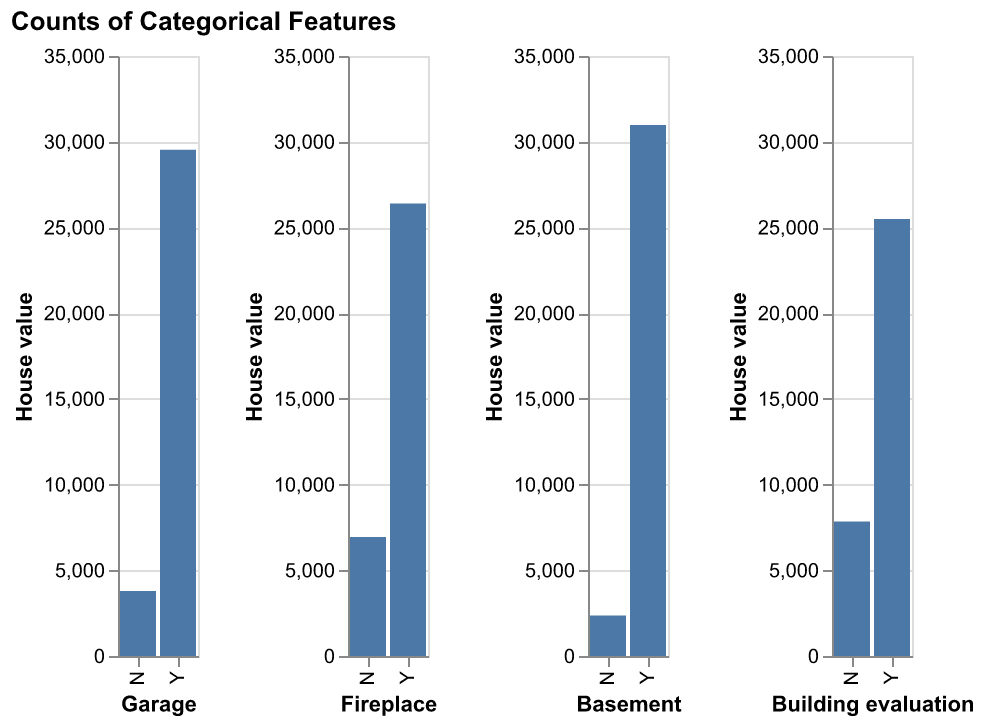
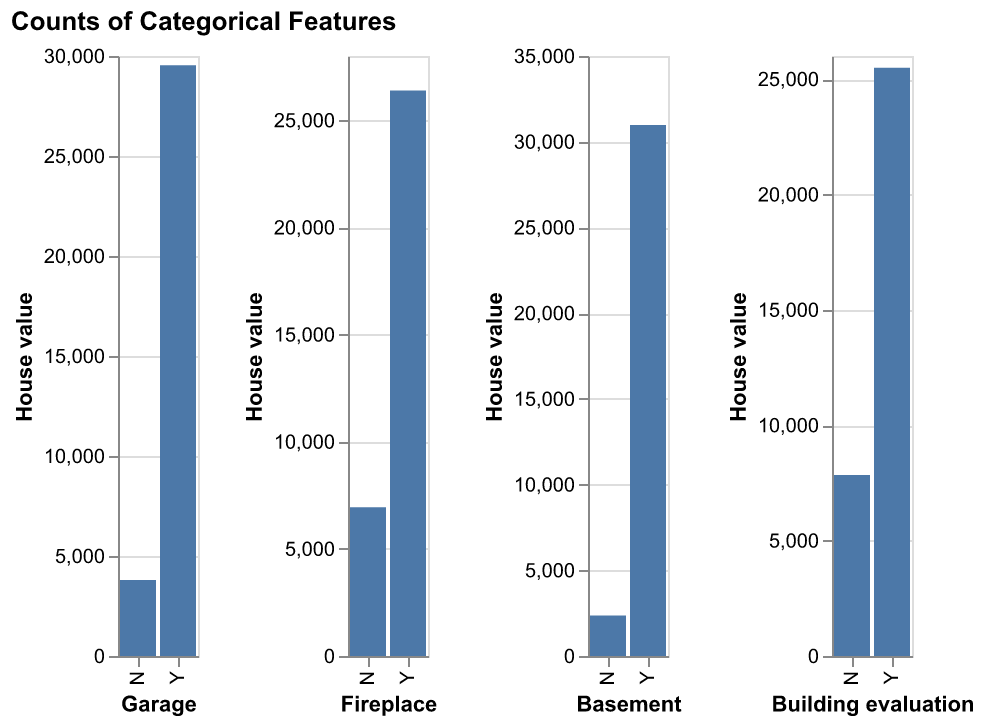
modified scripts and tests

diff --git a/scripts/eda.py b/scripts/eda.py
@@ -2,6 +2,7 @@
 import click
 import os
 import pandas as pd
+import altair as alt
 from src.eda_utils import create_combined_bar_chart
 
 @click.command()
@@ -9,22 +10,79 @@ from src.eda_utils import create_combined_bar_chart
 @click.option('--plot-to', type=str, help="Path to directory where the plots will be saved")
 def main(processed_data, plot_to):
     """
-    Creates combined bar charts for categorical features
-    and saves the plot as a file.
+    Creates bar charts, scatter plots, and distribution plots for categorical features 
+    and saves the combined plots as separate files.
     """
     # Load the processed data
     housing_df = pd.read_csv(processed_data)
-
-    # Generate the combined bar chart
-    combined_chart = create_combined_bar_chart(
+    
+    # Create and save the combined bar chart for categorical features
+    bar_chart_combined = create_combined_bar_chart(
         df=housing_df,
-        chart_title="Counts of categorical features"
+        chart_title="Counts of Categorical Features"
+    )
+    bar_chart_file = os.path.join(plot_to, "categorical_features_counts.png")
+    bar_chart_combined.save(bar_chart_file, scale_factor=2.0)
+
+    # Create scatter plots for house value assessment per categorical feature
+    grg = alt.Chart(housing_df).mark_point().encode(
+        x=alt.X('garage', title='Garage'),
+        y=alt.Y('assess_2022', title='House value'),
     )
 
-    # Save the combined plot
-    output_file = os.path.join(plot_to, "categorical_features_combined_chart.png")
-    combined_chart.save(output_file, scale_factor=2.0)
-    print(f"Combined bar chart saved to {output_file}")
+    frp = alt.Chart(housing_df).mark_point().encode(
+        x=alt.X('firepl', title='Fireplace'),
+        y=alt.Y('assess_2022', title='House value'),
+    )
+
+    bst = alt.Chart(housing_df).mark_point().encode(
+        x=alt.X('bsmt', title='Basement'),
+        y=alt.Y('assess_2022', title='House value'),
+    )
+
+    bdl = alt.Chart(housing_df).mark_point().encode(
+        x=alt.X('bdevl', title='Building evaluation'),
+        y=alt.Y('assess_2022', title='House value'),
+    )
+
+    scatter_chart_combined = (grg | frp | bst | bdl).properties(
+        title="House Value Assessment per Categorical Feature"
+    )
+    scatter_chart_file = os.path.join(plot_to, "categorical_features_scatter.png")
+    scatter_chart_combined.save(scatter_chart_file, scale_factor=2.0)
+
+    # Create a scatter plot for property size vs. assessment values
+    scatter = alt.Chart(housing_df).mark_point().encode(
+        y=alt.Y('meters', title="Property size (meters)"),
+        x=alt.X('assess_2022', title="Assessment Value"),
+        color=alt.Color('meters', title="Property size (meters)", scale=alt.Scale(scheme='viridis'))
+    ).properties(
+        title="Scatter Plot of Property Size and Assessment Values (2022)"
+    )
+
+    # Create a histogram and KDE plot for the 'assess_2022' column
+    histogram = alt.Chart(housing_df).mark_bar().encode(
+        alt.X("assess_2022:Q", bin=alt.Bin(maxbins=2000), title="Assessment Value").scale(domain=(0, 2000000), clamp=True),
+        alt.Y("count():Q", title="Frequency"),
+    ).properties(
+        title="Distribution of House Assessment Values (2022)"
+    )
+
+    kde = alt.Chart(housing_df).transform_density(
+        "assess_2022",
+        as_=["assess_2022", "density"], 
+        counts=True
+    ).mark_line(color="red").encode(
+        alt.X("assess_2022:Q", title="Assessment Value").scale(domain=(0, 2000000), clamp=True),
+        alt.Y("density:Q", title="Density")
+    ).properties(
+        title="Line Plot of KDE House Assessment Values (2022)"
+    )
+
+    # Combine the histogram, KDE plot, and scatter plot
+    combined_chart = histogram | kde | scatter
+    distribution_chart_file = os.path.join(plot_to, "distribution_charts.png")
+    combined_chart.save(distribution_chart_file, scale_factor=2.0)
 
 if __name__ == '__main__':
     main()

diff --git a/scripts/preprocess_data.py b/scripts/preprocess_data.py
@@ -4,9 +4,10 @@
 # author: Thamer Aldawood
 # date: 2024-12-05
 
-import pandas as pd
 import click
+import os
 import pickle
+import pandas as pd
 from src.preprocess_utils import create_preprocessor, validate_categorical_levels
 
 @click.command()
@@ -14,21 +15,32 @@ from src.preprocess_utils import create_preprocessor, validate_categorical_level
 @click.option('--write-to', type=str, help="Path to directory where preprocessed data will be written to")
 def main(train_data, write_to):
     """
-    Preprocesses the data, performs validation, and saves the preprocessor to disk.
+    Preprocesses and validates data, then writes preprocessor to disk using Pickle.
     """
     # Load the training data
     train_df = pd.read_csv(train_data)
-    
-    # Validate categorical levels
-    invalid_values = validate_categorical_levels(train_df, ['garage', 'firepl', 'bsmt', 'bdevl'], {'Y', 'N'})
-    if invalid_values:
-        raise ValueError(f"Invalid values found in categorical columns: {invalid_values}")
-    
+
+    # Define feature categories
+    categorical_features = ['garage', 'firepl', 'bsmt', 'bdevl']
+    numeric_features = ['meters']
+
+    # Validate categorical feature levels
+    validate_categorical_levels(train_df, categorical_features, expected_values={'Y', 'N'})
+
     # Create the preprocessor
-    preprocessor = create_preprocessor(['garage', 'firepl', 'bsmt', 'bdevl'], ['meters'])
-    
-    # Save the preprocessor to disk
-    pickle.dump(preprocessor, open(f"{write_to}/preprocessor.pickle", "wb"))
+    preprocessor = create_preprocessor(categorical_features, numeric_features)
+
+    # Fit the preprocessor to the training data (necessary for saving)
+    preprocessor.fit(train_df)
+
+    # Save the preprocessor to a pickle file
+    os.makedirs(write_to, exist_ok=True)
+    preprocessor_path = os.path.join(write_to, "preprocessor.pickle")
+    with open(preprocessor_path, "wb") as f:
+        pickle.dump(preprocessor, f)
+
+    print(f"✅ Preprocessor saved to {preprocessor_path}")
 
 if __name__ == '__main__':
     main()
+

diff --git a/tests/test_eda_utils.py b/tests/test_eda_utils.py
@@ -26,12 +26,12 @@ def test_create_combined_bar_chart():
     assert combined_chart.title == "Counts of categorical features", "Combined chart should have the correct title."
 
     # Check the number of subplots
-    assert len(combined_chart.vconcat) == 4, "Combined chart should contain 4 subplots."
+    assert len(combined_chart.hconcat) == 4, "Combined chart should contain 4 subplots."
 
     # Test the first subplot (e.g., 'garage')
-    first_chart = combined_chart.vconcat[0]
+    first_chart = combined_chart.hconcat[0]
     assert first_chart.encoding.x.shorthand == 'garage', "First chart x-axis should be mapped to 'garage'."
 
     # Test the second subplot (e.g., 'firepl')
-    second_chart = combined_chart.vconcat[1]
+    second_chart = combined_chart.hconcat[1]
     assert second_chart.encoding.x.shorthand == 'firepl', "Second chart x-axis should be mapped to 'firepl'."

diff --git a/src/eda_utils.py b/src/eda_utils.py
@@ -31,7 +31,7 @@ def create_combined_bar_chart(df, chart_title):
         y=alt.Y('count()', title='House value')
     )
 
-    combined_chart = alt.vconcat(grg0, frp0, bst0, bdl0).properties(
+    combined_chart = alt.hconcat(grg0, frp0, bst0, bdl0).properties(
         title=chart_title
     )
 
